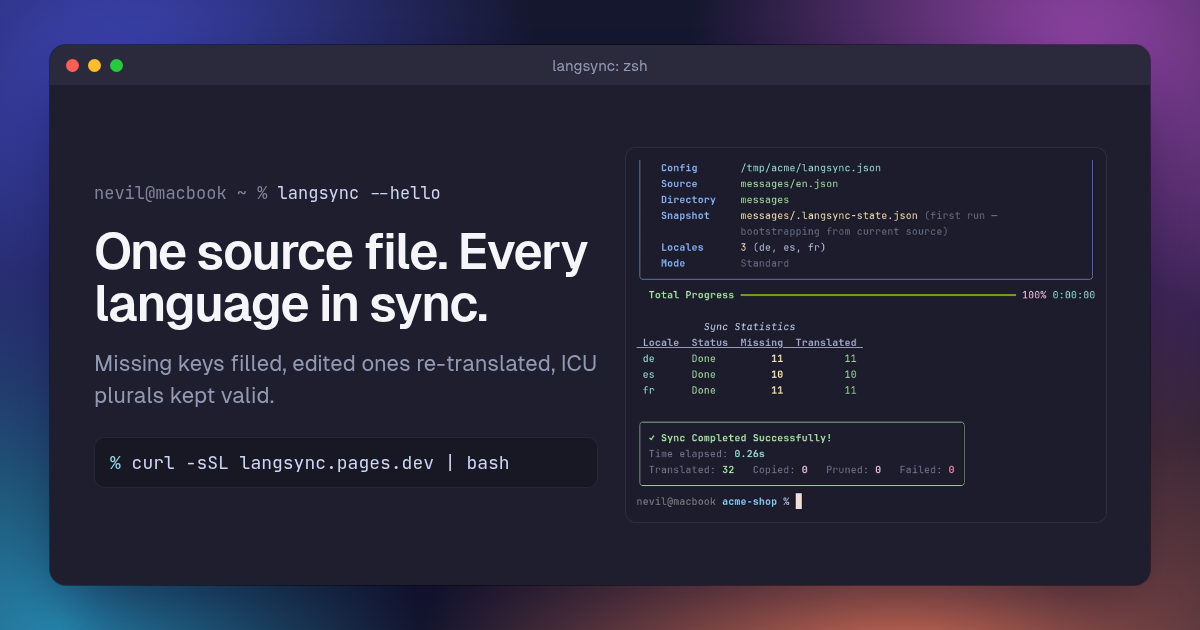
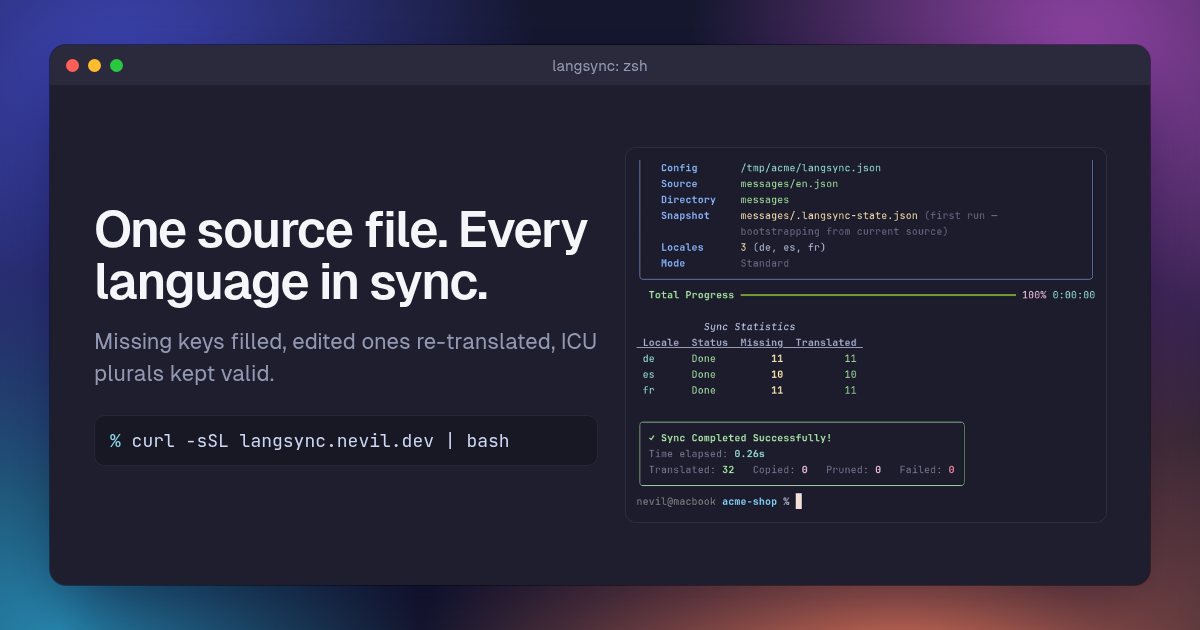
install command back to curl -sSL langsync.nevil.dev | bash everywhere, OG image to match

Changed region(s): [[0.0617, 0.3016, 0.4933, 0.6635], [0.0925, 0.6937, 0.4317, 0.754]]

diff --git a/site/index.html b/site/index.html
@@ -48,7 +48,7 @@
   "license": "https://opensource.org/licenses/MIT",
   "codeRepository": "https://github.com/dracu-lah/langsync-cli",
   "downloadUrl": "https://github.com/dracu-lah/langsync-cli",
-  "installUrl": "https://langsync.pages.dev/install.sh",
+  "installUrl": "https://langsync.nevil.dev",
   "screenshot": "https://langsync.pages.dev/media/sync.png",
   "offers": { "@type": "Offer", "price": "0", "priceCurrency": "USD" },
   "author": { "@type": "Person", "name": "Nevil", "url": "https://github.com/dracu-lah" }
@@ -93,8 +93,8 @@
         <div class="hero-copy">
           <h1><span>One source file.</span> <span>Every language in sync.</span></h1>
           <p class="lede">Fills missing keys, re-translates edited ones and keeps ICU plurals intact.</p>
-          <div class="install-line" data-copy="curl -sSL langsync.pages.dev | bash">
-            <code><span class="ps">%</span> curl -sSL langsync.pages.dev | bash</code>
+          <div class="install-line" data-copy="curl -sSL langsync.nevil.dev | bash">
+            <code><span class="ps">%</span> curl -sSL langsync.nevil.dev | bash</code>
             <button type="button" class="copy" aria-label="Copy install command"><i class="ph ph-copy" aria-hidden="true"></i><span>Copy</span></button>
           </div>
           <div class="ctas">
@@ -153,8 +153,8 @@
         <div class="install-grid">
           <div class="steps">
             <h3>Install</h3>
-            <div class="code" data-copy="curl -sSL langsync.pages.dev | bash"><pre><code><span class="c"># macOS and Linux, via pipx</span>
-curl -sSL langsync.pages.dev | bash</code></pre><button type="button" class="copy" aria-label="Copy"><i class="ph ph-copy" aria-hidden="true"></i></button></div>
+            <div class="code" data-copy="curl -sSL langsync.nevil.dev | bash"><pre><code><span class="c"># macOS and Linux, via pipx</span>
+curl -sSL langsync.nevil.dev | bash</code></pre><button type="button" class="copy" aria-label="Copy"><i class="ph ph-copy" aria-hidden="true"></i></button></div>
             <div class="code" data-copy="pipx install git+https://github.com/dracu-lah/langsync-cli.git"><pre><code><span class="c"># or by hand, anywhere Python 3 runs</span>
 pipx install git+https://github.com/dracu-lah/langsync-cli.git</code></pre><button type="button" class="copy" aria-label="Copy"><i class="ph ph-copy" aria-hidden="true"></i></button></div>
             <h3>Point it at your source</h3>

diff --git a/SECURITY.md b/SECURITY.md
@@ -3,7 +3,7 @@
 ## Supported versions
 
 Only the latest version gets fixes. Run `langsync --version`, and reinstall with
-`curl -sSL langsync.pages.dev | bash` to check the problem still happens on the newest one.
+`curl -sSL langsync.nevil.dev | bash` to check the problem still happens on the newest one.
 
 ## Reporting a vulnerability
 
@@ -18,4 +18,4 @@ within a week, and the fix can credit you if you like.
 LangSync runs on your machine and sends the strings it translates to Google Translate through
 [deep-translator](https://github.com/nidhaloff/deep-translator). Problems in those services belong
 upstream, though a heads up is welcome when LangSync is affected. The installer at
-`langsync.pages.dev` serves `install.sh` from this repository's `main` branch unchanged.
+`langsync.nevil.dev` serves `install.sh` from this repository unchanged.

diff --git a/README.md b/README.md
@@ -26,7 +26,7 @@
 ## Install
 
 ```bash
-curl -sSL langsync.pages.dev | bash
+curl -sSL langsync.nevil.dev | bash
 ```
 
 The script installs with [pipx](https://pipx.pypa.io) and falls back to `pip --user`. Run the same
